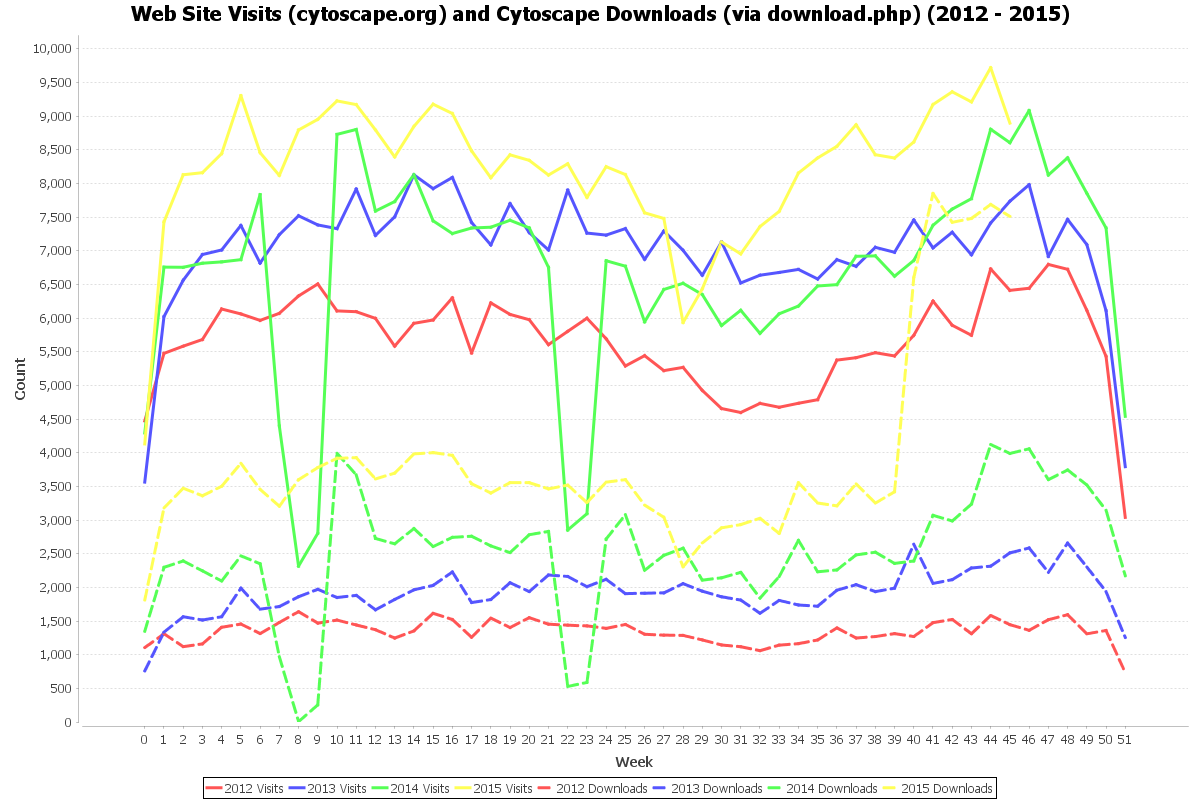
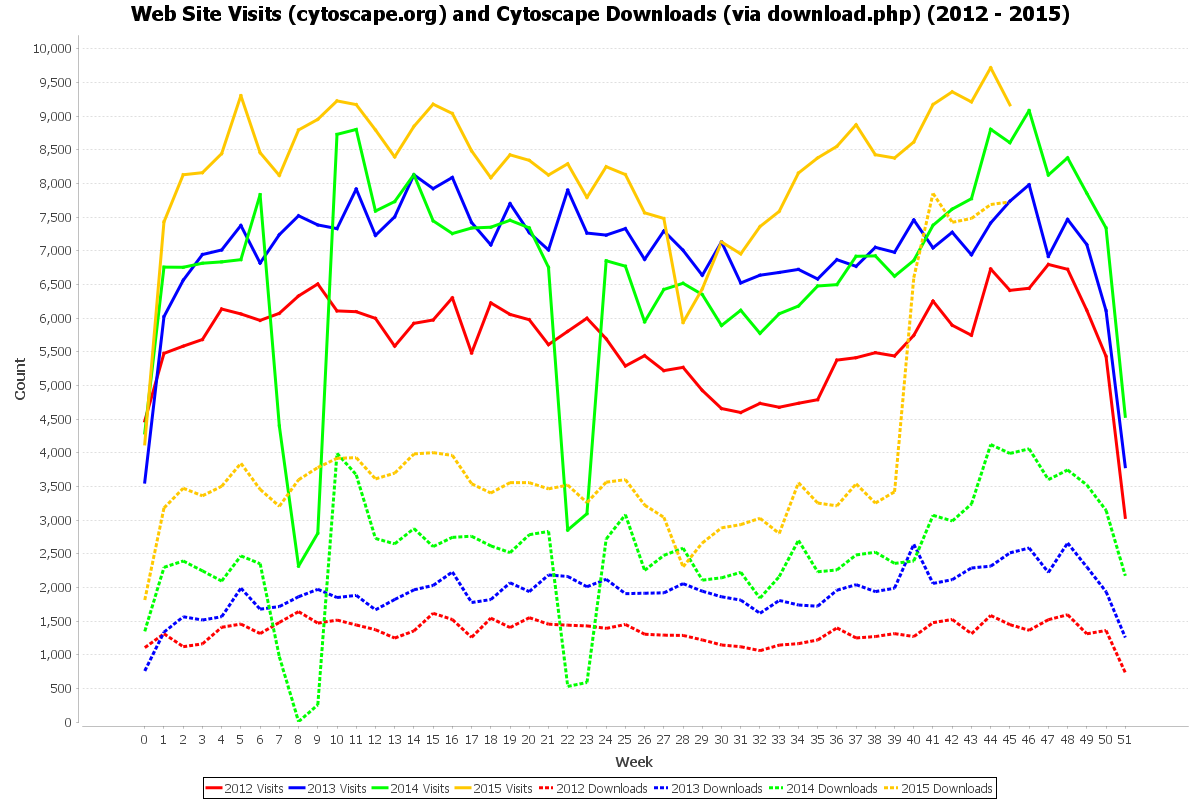
Merge origin/master
Conflicts:
	GAVisualizer/src/gavisualizer/GAVisualizer.java
	GAVisualizer/src/gavisualizer/GoogleApiManager.java

diff --git a/GAVisualizer/src/gavisualizer/LineChart.java b/GAVisualizer/src/gavisualizer/LineChart.java
@@ -10,32 +10,42 @@ import java.io.IOException;
 
 import java.awt.BasicStroke;
 import java.awt.Color;
-import java.awt.Dimension;
 import java.awt.Paint;
 import java.util.List;
 
 import org.jfree.chart.ChartFactory;
-import org.jfree.chart.ChartPanel;
 import org.jfree.chart.JFreeChart;
 import org.jfree.chart.axis.NumberAxis;
 import org.jfree.chart.plot.CategoryPlot;
 import org.jfree.chart.plot.PlotOrientation;
+import org.jfree.chart.plot.DefaultDrawingSupplier;
 import org.jfree.chart.renderer.category.LineAndShapeRenderer;
 import org.jfree.data.category.CategoryDataset;
-import org.jfree.data.category.DefaultCategoryDataset;
 import org.jfree.chart.ChartUtilities;
 import org.jfree.chart.renderer.AbstractRenderer;
+import org.jfree.chart.LegendItemCollection;
+import org.jfree.chart.LegendItem;
+ 
 
 /**
  *
  * @author Jake
  */
 public class LineChart implements IChart {
-    private CategoryDataset _dataset;
+    private final CategoryDataset _dataset;
     private JFreeChart _chart;
-    private String _title;
-    private String _axisLabelDomain;
-    private String _axisLabelRange;
+    private final String _title;
+    private final String _axisLabelDomain;
+    private final String _axisLabelRange;
+    
+    private static final BasicStroke DASHED_STROKE =  new BasicStroke(3, BasicStroke.CAP_BUTT, BasicStroke.JOIN_MITER,
+                1.0f, new float[] {4.0f, 2.0f}, 0.0f);
+    private static final BasicStroke STROKE_WIDTH = new BasicStroke(3);
+    private static final Paint[] PAINTS = new Paint[] {
+                Color.red, Color.blue, Color.green, 
+                Color.orange, Color.magenta, 
+                Color.cyan, Color.DARK_GRAY, Color.pink
+            };
     
     LineChart(String title, CategoryDataset dataset, String axisLabelDomain, String axisLabelRange) {
         _dataset = dataset;
@@ -44,6 +54,7 @@ public class LineChart implements IChart {
         _axisLabelRange = axisLabelRange;
     }
     
+    @Override
     public void generate()
     {
         JFreeChart chart = ChartFactory.createLineChart(
@@ -57,40 +68,48 @@ public class LineChart implements IChart {
             false                      // urls
         );
 
-        chart.setBackgroundPaint(Color.white);  
-
         final CategoryPlot plot = (CategoryPlot) chart.getPlot();
         plot.setBackgroundPaint(Color.white);
         plot.setRangeGridlinePaint(Color.lightGray);
         plot.setOutlinePaint(Color.white);
         
-        // customize the line and the stroke width of the series
-        final LineAndShapeRenderer renderer = (LineAndShapeRenderer) plot.getRenderer();
+        // set paints for chart
+        LineAndShapeRenderer renderer = (LineAndShapeRenderer) plot.getRenderer();
+        DefaultDrawingSupplier dw = new DefaultDrawingSupplier(
+                PAINTS, 
+                DefaultDrawingSupplier.DEFAULT_OUTLINE_PAINT_SEQUENCE, 
+                DefaultDrawingSupplier.DEFAULT_STROKE_SEQUENCE, 
+                DefaultDrawingSupplier.DEFAULT_OUTLINE_STROKE_SEQUENCE, 
+                DefaultDrawingSupplier.DEFAULT_SHAPE_SEQUENCE 
+            );
+        plot.setDrawingSupplier(dw);
+
+        // customize stroke width of the series
         ((AbstractRenderer)renderer).setAutoPopulateSeriesStroke(false);
-        renderer.setBaseStroke(new BasicStroke(3));
+        renderer.setBaseStroke(STROKE_WIDTH);
+        renderer.setBaseShapesVisible(false);
         
         // include dashed lines if necessary
         List<String> rows = _dataset.getRowKeys();
         if(rows.get(rows.size()-1).endsWith("Downloads"))
-        {
+        {            
             int start = _dataset.getRowCount() / 2;
             int init = 0;
-            while(start <= _dataset.getRowCount())
+            while(start < _dataset.getRowCount())
             {
-                renderer.setSeriesStroke(start, 
-                        new BasicStroke(
-                        3, BasicStroke.CAP_ROUND, BasicStroke.JOIN_ROUND, 
-                        1.0f, new float[] {10.0f, 6.0f}, 0.0f
-                        ));
-                Paint p = renderer.getItemPaint(init, 1);
-                renderer.setSeriesPaint(start, p);
+                // make sure series and legend have dashes
+                renderer.setSeriesStroke(start, DASHED_STROKE); 
+                LegendItemCollection legend = renderer.getLegendItems();
+                LegendItem li = legend.get(start-1);
+                li.setLineStroke(DASHED_STROKE);
+                
+                // make sure the color matches the undashed year
+                renderer.setSeriesPaint(start, renderer.getItemPaint(init, 0));
                 init++;
                 start++;
             }
-        } 
-
-        plot.setRenderer(renderer);
-
+        }
+        
         // customise the range axis...
         final NumberAxis rangeAxis = (NumberAxis) plot.getRangeAxis();
         rangeAxis.setStandardTickUnits(NumberAxis.createIntegerTickUnits());
@@ -99,6 +118,7 @@ public class LineChart implements IChart {
         _chart = chart;
     }
     
+    @Override
     public void saveAsImage(String path, int width, int height) throws IOException
     {
         ChartUtilities.saveChartAsPNG(new File(path), _chart, width, height);  

diff --git a/GAVisualizer/src/gavisualizer/GoogleApiManager.java b/GAVisualizer/src/gavisualizer/GoogleApiManager.java
@@ -30,7 +30,8 @@ import java.util.Date;
 public class GoogleApiManager {
     private static final String APPLICATION_NAME = "Hello Analytics";
     private static final JsonFactory JSON_FACTORY = GsonFactory.getDefaultInstance();
-    private static final String START_DATE = "2012-01-01";
+    private static final String START_DATE_WEBSITE = "2012-01-01";
+    private static final String START_DATE_APPSTORE = "2012-06-01";
     private String _END_DATE;
     private Analytics _analytics;
     private String _CytoscapeProfile;
@@ -54,7 +55,7 @@ public class GoogleApiManager {
     
     public GaData getSessionsByCountry() throws IOException {
         return _analytics.data().ga()
-                .get("ga:" + _CytoscapeProfile, START_DATE, _END_DATE, "ga:sessions")
+                .get("ga:" + _CytoscapeProfile, START_DATE_WEBSITE, _END_DATE, "ga:sessions")
                 .setDimensions("ga:country")
                 .setSort("-ga:sessions")
                 .execute();
@@ -62,7 +63,7 @@ public class GoogleApiManager {
     
     public GaData getWebsiteReferralSources() throws IOException {
         return _analytics.data().ga()
-                .get("ga:" + _CytoscapeProfile, START_DATE, _END_DATE, "ga:sessions")
+                .get("ga:" + _CytoscapeProfile, START_DATE_WEBSITE, _END_DATE, "ga:sessions")
                 .setDimensions("ga:sourceMedium")
                 .setSort("-ga:sessions")
                 .execute();
@@ -70,14 +71,14 @@ public class GoogleApiManager {
     
     public GaData getWebsiteSessionsByWeek() throws IOException {
         return _analytics.data().ga()
-                .get("ga:" + _CytoscapeProfile, START_DATE, _END_DATE, "ga:sessions")
+                .get("ga:" + _CytoscapeProfile, START_DATE_WEBSITE, _END_DATE, "ga:sessions")
                 .setDimensions("ga:nthWeek")
                 .execute();
     }     
     
     public GaData getWebsiteDownloads() throws IOException {
         return _analytics.data().ga()
-                .get("ga:" + _CytoscapeProfile, START_DATE, _END_DATE, "ga:pageviews")
+                .get("ga:" + _CytoscapeProfile, START_DATE_WEBSITE, _END_DATE, "ga:pageviews")
                 .setFilters("ga:pagePath==/download.php")
                 .setDimensions("ga:pagePath,ga:nthWeek")
                 .setSort("ga:nthWeek")
@@ -87,7 +88,7 @@ public class GoogleApiManager {
     //Extracts data for App Store Sessions by Country
     public GaData getAppSessionsByCountry() throws IOException {  
         return _analytics.data().ga()
-                .get("ga:" + _AppstoreProfile, "2012-06-01", _END_DATE, "ga:sessions")
+                .get("ga:" + _AppstoreProfile, START_DATE_APPSTORE, _END_DATE, "ga:sessions")
                 .setDimensions("ga:country")
                 .setSort("-ga:sessions")
                 .execute();
@@ -96,7 +97,7 @@ public class GoogleApiManager {
     //Extracts data for App Store Referral Sources
     public GaData getAppReferralSources() throws IOException {
         return _analytics.data().ga()
-                .get("ga:" + _AppstoreProfile, "2012-06-01", _END_DATE, "ga:sessions")
+                .get("ga:" + _AppstoreProfile, START_DATE_APPSTORE, _END_DATE, "ga:sessions")
                 .setDimensions("ga:sourceMedium")
                 .setSort("-ga:sessions")
                 .execute();
@@ -105,7 +106,7 @@ public class GoogleApiManager {
     //Extracts data for App Store Visits by Week
     public GaData getAppSessionsByWeek () throws IOException {
         return _analytics.data().ga()
-                .get("ga:" + _AppstoreProfile, START_DATE, _END_DATE, "ga:sessions")
+                .get("ga:" + _AppstoreProfile, START_DATE_APPSTORE, _END_DATE, "ga:sessions")
                 .setDimensions("ga:nthWeek")
                 .execute();
     }
@@ -113,7 +114,7 @@ public class GoogleApiManager {
     //Extracts data for App Store Visits by Week
     public GaData getAppAttractionsByCategory () throws IOException {
         return _analytics.data().ga()
-                .get("ga:" + _AppstoreProfile, "2012-06-01",_END_DATE, "ga:pageviews")
+                .get("ga:" + _AppstoreProfile, START_DATE_APPSTORE, _END_DATE, "ga:pageviews")
                 .setDimensions("ga:pageTitle")
                 .setSort("-ga:pageviews")
                 .setFilters("ga:pageTitle=~category")
@@ -222,5 +223,6 @@ public class GoogleApiManager {
         //return the date with the expected output format
         return write.format(d);
         //return "2015-02-22"; // customer example
+        //return "2015-11-14";
     }
 }

diff --git a/GAVisualizer/src/gavisualizer/GAVisualizer.java b/GAVisualizer/src/gavisualizer/GAVisualizer.java
@@ -9,40 +9,16 @@ package gavisualizer;
  *
  * @author Jake
  */
-import com.google.api.client.googleapis.auth.oauth2.GoogleCredential;
-import com.google.api.client.googleapis.javanet.GoogleNetHttpTransport;
-import com.google.api.client.http.HttpTransport;
-import com.google.api.client.json.JsonFactory;
-import com.google.api.client.json.gson.GsonFactory;
-
-import com.google.api.services.analytics.Analytics;
-import com.google.api.services.analytics.AnalyticsScopes;
-import com.google.api.services.analytics.model.Accounts;
 import com.google.api.services.analytics.model.GaData;
-import com.google.api.services.analytics.model.Profiles;
-import com.google.api.services.analytics.model.Webproperties;
 
-import org.jfree.chart.ChartFactory;
-import org.jfree.chart.ChartPanel;
-import org.jfree.chart.JFreeChart;
-import org.jfree.chart.plot.PiePlot;
-import org.jfree.chart.plot.PiePlot3D;
-import org.jfree.chart.labels.StandardPieSectionLabelGenerator;
 import org.jfree.data.general.DefaultPieDataset;
 import org.jfree.data.general.PieDataset;
-import org.jfree.util.Rotation;
 import org.jfree.data.category.CategoryDataset;
 import org.jfree.data.category.DefaultCategoryDataset;
-
-import java.util.List;
-import java.io.File;
-import java.io.IOException;
-import org.jfree.chart.ChartUtilities;
 
 import java.text.NumberFormat;
 import java.text.SimpleDateFormat;
 import java.text.DateFormat;
-import java.util.Date;
 import java.util.*;
 import java.io.FileReader;
 
@@ -181,6 +157,17 @@ public class GAVisualizer {
             int count = 0;
             for (List<String> r : rows)
             {
+                // remove unwanted text
+                if(r.get(0).contains((CharSequence)"Cytoscape App Store - "))
+                {
+                    r.set(0, r.get(0).replace("Cytoscape App Store -", ""));
+                }
+                
+                if(r.get(0).contains((CharSequence)"category"))
+                {
+                    r.set(0, r.get(0).replace(" category", ""));
+                }
+                
                 if (count <= MAX_CATEGORIES) // Show the top 6
                 {
                     result.setValue(r.get(0), Integer.parseInt(r.get(1)));                    

diff --git a/GAVisualizer/src/gavisualizer/PieChart.java b/GAVisualizer/src/gavisualizer/PieChart.java
@@ -9,13 +9,10 @@ import java.awt.Color;
 import java.io.File;
 import java.io.IOException;
 import org.jfree.chart.ChartFactory;
-import org.jfree.chart.ChartPanel;
 import org.jfree.chart.ChartUtilities;
 import org.jfree.chart.JFreeChart;
 import org.jfree.chart.labels.StandardPieSectionLabelGenerator;
 import org.jfree.chart.plot.PiePlot;
-import org.jfree.chart.plot.PiePlot3D;
-import org.jfree.data.general.DefaultPieDataset;
 import org.jfree.data.general.PieDataset;
 import org.jfree.util.Rotation;
 
@@ -24,15 +21,16 @@ import org.jfree.util.Rotation;
  * @author Jake
  */
 public class PieChart implements IChart {
-    private PieDataset _dataset;
+    private final PieDataset _dataset;
     private JFreeChart _chart;
-    private String _title;
+    private final String _title;
     
     PieChart(String title, PieDataset dataset) {
         _dataset = dataset;
         _title = title;
     }
     
+    @Override
     public void generate()
     {
         JFreeChart chart = ChartFactory.createPieChart(_title,          // chart title
@@ -51,6 +49,7 @@ public class PieChart implements IChart {
         _chart = chart;
     }
     
+    @Override
     public void saveAsImage(String path, int width, int height) throws IOException
     {
         ChartUtilities.saveChartAsPNG(new File(path), _chart, width, height);  

diff --git a/GAVisualizer/src/gavisualizer/IChart.java b/GAVisualizer/src/gavisualizer/IChart.java
@@ -6,7 +6,6 @@
 package gavisualizer;
 
 import java.io.IOException;
-import org.jfree.chart.JFreeChart;
 
 /**
  *
